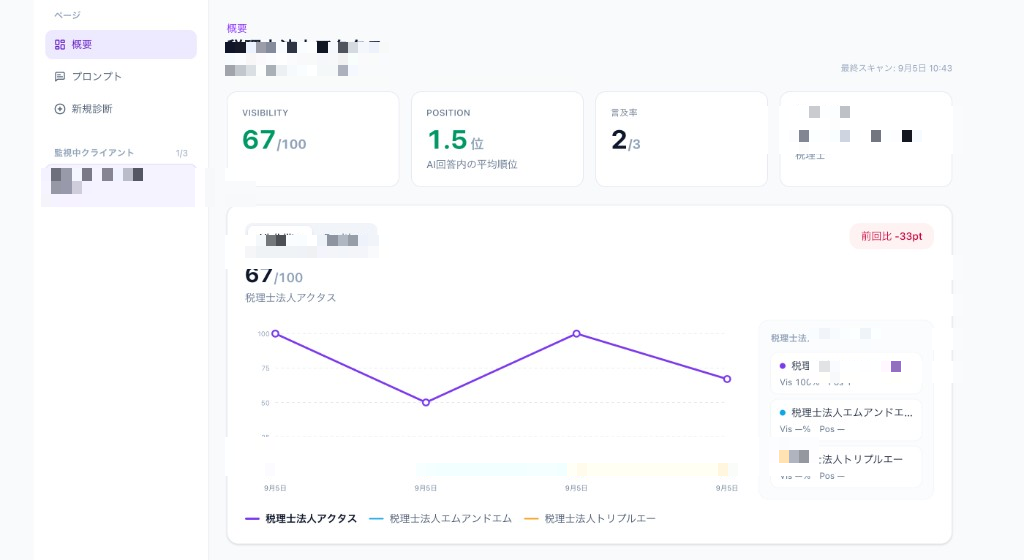
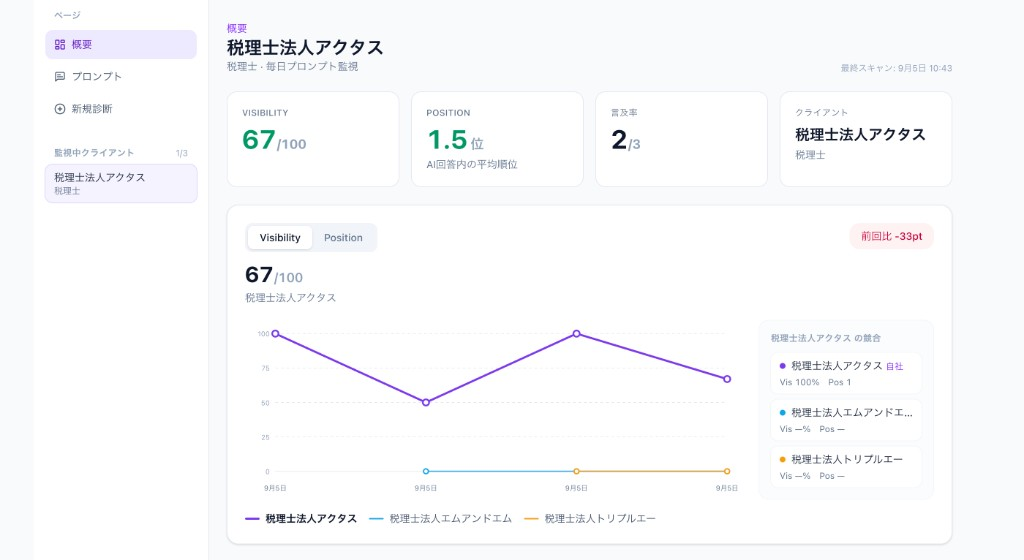
LPのスクショからモザイクを外し、デモ注記をPeec方式に更新する。

diff --git a/components/lp/GeoLandingPage.tsx b/components/lp/GeoLandingPage.tsx
@@ -215,7 +215,7 @@ export function GeoLandingPage() {
                 診断から毎日監視まで、1つの画面で
               </h2>
               <p className="mt-2 text-sm text-slate-500">
-                ※ デモ診断のスクリーンショットです。企業名はモザイク処理しています。
+                ※ デモ診断のサンプル画面です。掲載企業との提携関係はありません。
               </p>
             </div>
 
@@ -272,7 +272,7 @@ export function GeoLandingPage() {
       <footer className="border-t border-slate-200 bg-white px-4 py-8 sm:px-6">
         <div className="mx-auto flex max-w-6xl flex-col gap-2 text-xs text-slate-500 sm:flex-row sm:items-center sm:justify-between">
           <p>© {new Date().getFullYear()} GEO Lab</p>
-          <p>画面はデモ診断の結果です。企業名はモザイク処理しています。</p>
+          <p>画面はデモ診断のサンプルです。掲載企業との提携関係はありません。</p>
         </div>
       </footer>
     </div>
